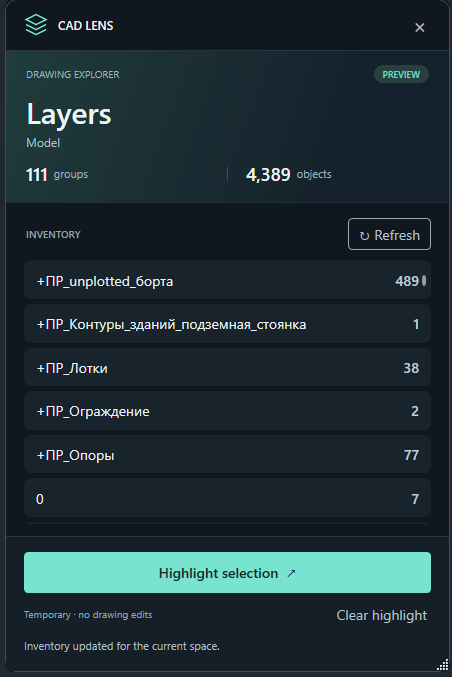
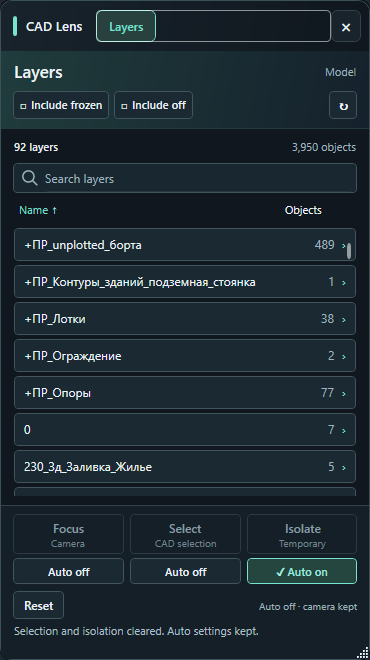
sort and search

diff --git a/src/CadLens.UI/Lenses/Layers/Views/LayersView.xaml b/src/CadLens.UI/Lenses/Layers/Views/LayersView.xaml
@@ -96,6 +96,7 @@
             <Grid Grid.Row="1">
                 <Grid.RowDefinitions>
                     <RowDefinition Height="Auto" />
+                    <RowDefinition Height="Auto" />
                     <RowDefinition Height="*" />
                 </Grid.RowDefinitions>
                 <Border Background="#182730" BorderBrush="#34434B" BorderThickness="1" CornerRadius="5" Padding="9,7" Margin="0,0,0,6">
@@ -118,8 +119,80 @@
                         <TextBlock Text="{Binding Current.Count, StringFormat={}{0:N0} objects}" Foreground="{StaticResource QuietAccent}" FontSize="11" Margin="0,2,0,0" />
                     </StackPanel>
                 </Border>
-                <TextBlock Grid.Row="1" Text="{Binding EmptyMessage}" TextWrapping="Wrap" Margin="2,8" Foreground="{StaticResource QuietMuted}" Visibility="{Binding IsEmpty, Converter={StaticResource BooleanVisibility}}" />
-                <ListBox Grid.Row="1" ItemsSource="{Binding Items}" Background="Transparent" BorderThickness="0" Padding="0" ScrollViewer.HorizontalScrollBarVisibility="Disabled" ScrollViewer.VerticalScrollBarVisibility="Auto" VirtualizingPanel.IsVirtualizing="True" VirtualizingPanel.VirtualizationMode="Recycling">
+                <Grid Grid.Row="1" Margin="0,0,0,5">
+                    <Grid.Style>
+                        <Style TargetType="Grid">
+                            <Style.Triggers>
+                                <DataTrigger Binding="{Binding HasCurrent}" Value="True">
+                                    <Setter Property="Visibility" Value="Collapsed" />
+                                </DataTrigger>
+                            </Style.Triggers>
+                        </Style>
+                    </Grid.Style>
+                    <Grid.RowDefinitions>
+                        <RowDefinition Height="Auto" />
+                        <RowDefinition Height="Auto" />
+                    </Grid.RowDefinitions>
+                    <Border Background="#182730" BorderBrush="#42545E" BorderThickness="1" CornerRadius="4" Height="30" Margin="0,0,0,5">
+                        <Border.Style>
+                            <Style TargetType="Border">
+                                <Style.Triggers>
+                                    <Trigger Property="IsKeyboardFocusWithin" Value="True">
+                                        <Setter Property="BorderBrush" Value="#78E3CE" />
+                                    </Trigger>
+                                </Style.Triggers>
+                            </Style>
+                        </Border.Style>
+                        <DockPanel Margin="8,0,3,0">
+                            <Path DockPanel.Dock="Left" Data="M 8,1 A 7,7 0 1 1 7.99,1 M 13,13 L 19,19" Width="16" Height="16" Stretch="Uniform" Stroke="{StaticResource QuietMuted}" StrokeThickness="1.5" Margin="0,0,7,0" VerticalAlignment="Center" IsHitTestVisible="False" />
+                            <Button DockPanel.Dock="Right" Content="×" Width="23" Height="23" Padding="0" FontSize="14" Command="{Binding ClearSearchCommand}" ToolTip="Clear layer search" AutomationProperties.Name="Clear layer search">
+                                <Button.Style>
+                                    <Style TargetType="Button" BasedOn="{StaticResource ModeButton}">
+                                        <Style.Triggers>
+                                            <DataTrigger Binding="{Binding LayerSearch}" Value="">
+                                                <Setter Property="Visibility" Value="Collapsed" />
+                                            </DataTrigger>
+                                        </Style.Triggers>
+                                    </Style>
+                                </Button.Style>
+                            </Button>
+                            <Grid>
+                                <TextBox Text="{Binding LayerSearch, UpdateSourceTrigger=PropertyChanged}" Background="Transparent" Foreground="{StaticResource QuietText}" BorderThickness="0" Padding="0" VerticalContentAlignment="Center" CaretBrush="{StaticResource QuietText}" AutomationProperties.Name="Search layers by name" />
+                                <TextBlock Text="Search layers" Foreground="{StaticResource QuietMuted}" VerticalAlignment="Center" IsHitTestVisible="False">
+                                    <TextBlock.Style>
+                                        <Style TargetType="TextBlock">
+                                            <Setter Property="Visibility" Value="Collapsed" />
+                                            <Style.Triggers>
+                                                <DataTrigger Binding="{Binding LayerSearch}" Value="">
+                                                    <Setter Property="Visibility" Value="Visible" />
+                                                </DataTrigger>
+                                                <DataTrigger Binding="{Binding LayerSearch}" Value="{x:Null}">
+                                                    <Setter Property="Visibility" Value="Visible" />
+                                                </DataTrigger>
+                                            </Style.Triggers>
+                                        </Style>
+                                    </TextBlock.Style>
+                                </TextBlock>
+                            </Grid>
+                        </DockPanel>
+                    </Border>
+                    <DockPanel Grid.Row="1">
+                        <ToggleButton DockPanel.Dock="Right" IsChecked="{Binding IsCountSortActive, Mode=OneWay}" Command="{Binding SortByCountCommand}" Style="{StaticResource ModeSortHeader}" ToolTip="Sort layers by object count" AutomationProperties.Name="Sort layers by object count" MinWidth="78">
+                            <StackPanel Orientation="Horizontal">
+                                <TextBlock Text="Objects" />
+                                <TextBlock Text="{Binding CountSortArrow}" Margin="4,0,0,0" />
+                            </StackPanel>
+                        </ToggleButton>
+                        <ToggleButton DockPanel.Dock="Left" IsChecked="{Binding IsNameSortActive, Mode=OneWay}" Command="{Binding SortByNameCommand}" Style="{StaticResource ModeSortHeader}" ToolTip="Sort layers by name" AutomationProperties.Name="Sort layers by name">
+                            <StackPanel Orientation="Horizontal">
+                                <TextBlock Text="Name" />
+                                <TextBlock Text="{Binding NameSortArrow}" Margin="4,0,0,0" />
+                            </StackPanel>
+                        </ToggleButton>
+                    </DockPanel>
+                </Grid>
+                <TextBlock Grid.Row="2" Text="{Binding EmptyMessage}" TextWrapping="Wrap" Margin="2,8" Foreground="{StaticResource QuietMuted}" Visibility="{Binding IsEmpty, Converter={StaticResource BooleanVisibility}}" />
+                <ListBox Grid.Row="2" ItemsSource="{Binding Items}" Background="Transparent" BorderThickness="0" Padding="0" ScrollViewer.HorizontalScrollBarVisibility="Disabled" ScrollViewer.VerticalScrollBarVisibility="Auto" VirtualizingPanel.IsVirtualizing="True" VirtualizingPanel.VirtualizationMode="Recycling">
                     <ListBox.Style>
                         <Style TargetType="ListBox">
                             <Style.Triggers>
@@ -155,7 +228,7 @@
                         </DataTemplate>
                     </ListBox.ItemTemplate>
                 </ListBox>
-                <ScrollViewer x:Name="ObjectDetails" Grid.RowSpan="2" VerticalScrollBarVisibility="Auto" HorizontalScrollBarVisibility="Disabled" Visibility="{Binding IsObject, Converter={StaticResource BooleanVisibility}}">
+                <ScrollViewer x:Name="ObjectDetails" Grid.RowSpan="3" VerticalScrollBarVisibility="Auto" HorizontalScrollBarVisibility="Disabled" Visibility="{Binding IsObject, Converter={StaticResource BooleanVisibility}}">
                     <Border Background="#182730" BorderBrush="#34434B" BorderThickness="1" CornerRadius="5" Padding="9,8">
                         <StackPanel>
                             <TextBlock Text="{Binding Current.Label}" FontWeight="SemiBold" FontSize="14" TextWrapping="Wrap" Margin="0,0,0,9" />

diff --git a/src/CadLens.UI/Lenses/Layers/Views/LayersTheme.xaml b/src/CadLens.UI/Lenses/Layers/Views/LayersTheme.xaml
@@ -79,6 +79,20 @@
         <Setter Property="FontWeight" Value="Normal" />
         <Setter Property="FontSize" Value="12" />
     </Style>
+    <Style x:Key="ModeSortHeader" TargetType="ToggleButton" BasedOn="{StaticResource ModeControl}">
+        <Setter Property="MinHeight" Value="24" />
+        <Setter Property="Padding" Value="5,2" />
+        <Setter Property="FontSize" Value="11" />
+        <Setter Property="FontWeight" Value="Normal" />
+        <Setter Property="HorizontalContentAlignment" Value="Left" />
+        <Setter Property="Background" Value="Transparent" />
+        <Setter Property="BorderBrush" Value="Transparent" />
+        <Style.Triggers>
+            <Trigger Property="IsChecked" Value="True">
+                <Setter Property="Foreground" Value="{StaticResource QuietAccent}" />
+            </Trigger>
+        </Style.Triggers>
+    </Style>
     <Style x:Key="ModeDescriptor" TargetType="TextBlock">
         <Setter Property="FontSize" Value="10" />
         <Setter Property="FontWeight" Value="Normal" />

diff --git a/src/CadLens.UI/Lenses/Layers/ViewModels/LayersViewModel.cs b/src/CadLens.UI/Lenses/Layers/ViewModels/LayersViewModel.cs
@@ -22,6 +22,10 @@ public sealed class LayersViewModel : ObservableObject, IDisposable
     private string _spaceLabel = "Active drawing";
     private string _lensLabel = "Overview";
     private ImmutableArray<LensNode> _groups = [];
+    private ImmutableArray<LensNode> _visibleGroups = [];
+    private string _layerSearch = "";
+    private bool _sortByCount;
+    private bool _sortDescending;
     private bool _disposed;
     private bool _needsCleanup;
     private bool _hasDrawing = true;
@@ -62,6 +66,9 @@ public sealed class LayersViewModel : ObservableObject, IDisposable
             () => ExecuteActionAsync(ToggleAutoSelectAsync), CanRun);
         ToggleAutoFocusCommand = new AsyncRelayCommand(
             () => ExecuteActionAsync(ToggleAutoFocusAsync), CanRun);
+        SortByNameCommand = new RelayCommand(() => ChangeSort(false));
+        SortByCountCommand = new RelayCommand(() => ChangeSort(true));
+        ClearSearchCommand = new RelayCommand(() => LayerSearch = "");
     }
 
     /// <summary>Whether the lens is expanded and allowed to access the drawing.</summary>
@@ -103,6 +110,7 @@ public sealed class LayersViewModel : ObservableObject, IDisposable
         private set
         {
             SetProperty(ref _groups, value);
+            UpdateVisibleGroups();
             OnPropertyChanged(nameof(GroupCount));
             OnPropertyChanged(nameof(ObjectCount));
             OnPropertyChanged(nameof(HasGroups));
@@ -110,7 +118,30 @@ public sealed class LayersViewModel : ObservableObject, IDisposable
     }
 
     /// <summary>Children at the current exploration level.</summary>
-    public ImmutableArray<LensNode> Items => _navigation.Items;
+    public ImmutableArray<LensNode> Items => Current is null ? _visibleGroups : _navigation.Items;
+
+    /// <summary>Finds layers by name in the root list.</summary>
+    public string LayerSearch
+    {
+        get => _layerSearch;
+        set
+        {
+            if (SetProperty(ref _layerSearch, value))
+                UpdateVisibleGroups();
+        }
+    }
+
+    /// <summary>Whether the name column controls root ordering.</summary>
+    public bool IsNameSortActive => !_sortByCount;
+
+    /// <summary>Whether the object count column controls root ordering.</summary>
+    public bool IsCountSortActive => _sortByCount;
+
+    /// <summary>Current direction indicator for the name column.</summary>
+    public string NameSortArrow => !_sortByCount ? (_sortDescending ? "↓" : "↑") : "";
+
+    /// <summary>Current direction indicator for the object count column.</summary>
+    public string CountSortArrow => _sortByCount ? (_sortDescending ? "↓" : "↑") : "";
 
     /// <summary>Current group or object details.</summary>
     public LensNode? Current => _navigation.Current;
@@ -149,10 +180,21 @@ public sealed class LayersViewModel : ObservableObject, IDisposable
     }
 
     /// <summary>Whether the current result has no root groups.</summary>
-    public bool IsEmpty => Groups.IsEmpty;
+    public bool IsEmpty => Current is null && _visibleGroups.IsEmpty;
 
     /// <summary>Lens-provided explanation for an empty inventory.</summary>
-    public string EmptyMessage => _emptyMessage;
+    public string EmptyMessage => !Groups.IsEmpty && _visibleGroups.IsEmpty
+        ? "No layers match your search."
+        : _emptyMessage;
+
+    /// <summary>Sorts root layers by name; clicking again reverses direction.</summary>
+    public IRelayCommand SortByNameCommand { get; }
+
+    /// <summary>Sorts root layers by object count; clicking again reverses direction.</summary>
+    public IRelayCommand SortByCountCommand { get; }
+
+    /// <summary>Clears the layer-name search.</summary>
+    public IRelayCommand ClearSearchCommand { get; }
 
     /// <summary>Lens options and their current inclusion state.</summary>
     public ImmutableArray<FilterOption> Filters => _filters;
@@ -262,6 +304,34 @@ public sealed class LayersViewModel : ObservableObject, IDisposable
     private bool CanRun() => !_disposed && !_activationToken.IsCancellationRequested && IsLensActive && _hasDrawing && !IsBusy;
 
     private bool HasFocusTarget() => Current is { Objects.IsEmpty: false } node && node.Actions.Contains(LensAction.Focus);
+
+    private void ChangeSort(bool byCount)
+    {
+        _sortDescending = _sortByCount == byCount ? !_sortDescending : byCount;
+        _sortByCount = byCount;
+        OnPropertyChanged(nameof(IsNameSortActive));
+        OnPropertyChanged(nameof(IsCountSortActive));
+        OnPropertyChanged(nameof(NameSortArrow));
+        OnPropertyChanged(nameof(CountSortArrow));
+        UpdateVisibleGroups();
+    }
+
+    private void UpdateVisibleGroups()
+    {
+        var groups = Groups.Where(group => group.Label.Contains(LayerSearch.Trim(), StringComparison.OrdinalIgnoreCase));
+        _visibleGroups = (_sortByCount
+                ? _sortDescending
+                    ? groups.OrderByDescending(group => group.Count).ThenBy(group => group.Label, StringComparer.OrdinalIgnoreCase)
+                    : groups.OrderBy(group => group.Count).ThenBy(group => group.Label, StringComparer.OrdinalIgnoreCase)
+                : _sortDescending
+                    ? groups.OrderByDescending(group => group.Label, StringComparer.OrdinalIgnoreCase)
+                    : groups.OrderBy(group => group.Label, StringComparer.OrdinalIgnoreCase))
+            .ToImmutableArray();
+        OnPropertyChanged(nameof(Items));
+        OnPropertyChanged(nameof(IsEmpty));
+        OnPropertyChanged(nameof(EmptyMessage));
+        EnterCommand.NotifyCanExecuteChanged();
+    }
 
     /// <summary>Loads the Layers view for the active session.</summary>
     /// <param name="cancellationToken">Canceled when the panel deactivates this lens.</param>

diff --git a/tests/CadLens.UI.Tests/Layers/ExplorerNavigationTests.cs b/tests/CadLens.UI.Tests/Layers/ExplorerNavigationTests.cs
@@ -8,6 +8,53 @@ namespace CadLens.UI.Tests;
 /// <summary>Layers exploration behavior over a detached inventory fixture.</summary>
 public sealed class ExplorerNavigationTests
 {
+    /// <summary>Root search and sorting change only visible layers, without reading or changing CAD state.</summary>
+    [Fact]
+    public async Task RootSearchAndSortKeepInventoryAndNavigationIntact()
+    {
+        var actions = new Actions();
+        var group = CreatePresentation(false, false).Groups[0];
+        var presentation = CreatePresentation(false, false) with
+        {
+            Groups =
+            [
+                group with { Id = "zulu", Label = "Zulu", Objects = [new TestEntityId(1)] },
+                group with { Id = "alpha", Label = "Alpha", Objects = [new TestEntityId(1), new TestEntityId(2), new TestEntityId(3)] },
+                group with { Id = "beta", Label = "Beta", Objects = [new TestEntityId(1), new TestEntityId(2)] }
+            ]
+        };
+        actions.Pending = new TaskCompletionSource<HostResult<LayersPresentation>>();
+        actions.Pending.SetResult(new HostResult<LayersPresentation>.Success(presentation));
+        using var model = new LayersViewModel(actions);
+        await model.ActivateAsync(CancellationToken.None);
+        var reads = actions.ReadCount;
+        var clears = actions.ClearCount;
+
+        Assert.Equal(["Alpha", "Beta", "Zulu"], model.Items.Select(node => node.Label));
+        model.SortByCountCommand.Execute(null);
+        Assert.Equal(["Alpha", "Beta", "Zulu"], model.Items.Select(node => node.Label));
+        Assert.Equal("↓", model.CountSortArrow);
+        model.SortByCountCommand.Execute(null);
+        Assert.Equal(["Zulu", "Beta", "Alpha"], model.Items.Select(node => node.Label));
+        model.SortByNameCommand.Execute(null);
+        Assert.Equal("↑", model.NameSortArrow);
+
+        model.LayerSearch = " alp ";
+        Assert.Equal("Alpha", Assert.Single(model.Items).Label);
+        Assert.Equal(3, model.GroupCount);
+        Assert.Equal(reads, actions.ReadCount);
+        Assert.Equal(clears, actions.ClearCount);
+        await model.EnterCommand.ExecuteAsync(model.Items[0]);
+        Assert.Single(model.Items);
+        await model.RootCommand.ExecuteAsync(null);
+        model.LayerSearch = "missing";
+        Assert.True(model.IsEmpty);
+        Assert.Equal("No layers match your search.", model.EmptyMessage);
+        model.ClearSearchCommand.Execute(null);
+        Assert.Equal(3, model.Items.Length);
+        Assert.Equal(reads, actions.ReadCount);
+    }
+
     /// <summary>Navigation restores broader isolation and never invokes Focus.</summary>
     [Fact]
     public async Task BrowseObjectsAndReturnThroughBreadcrumbs()
